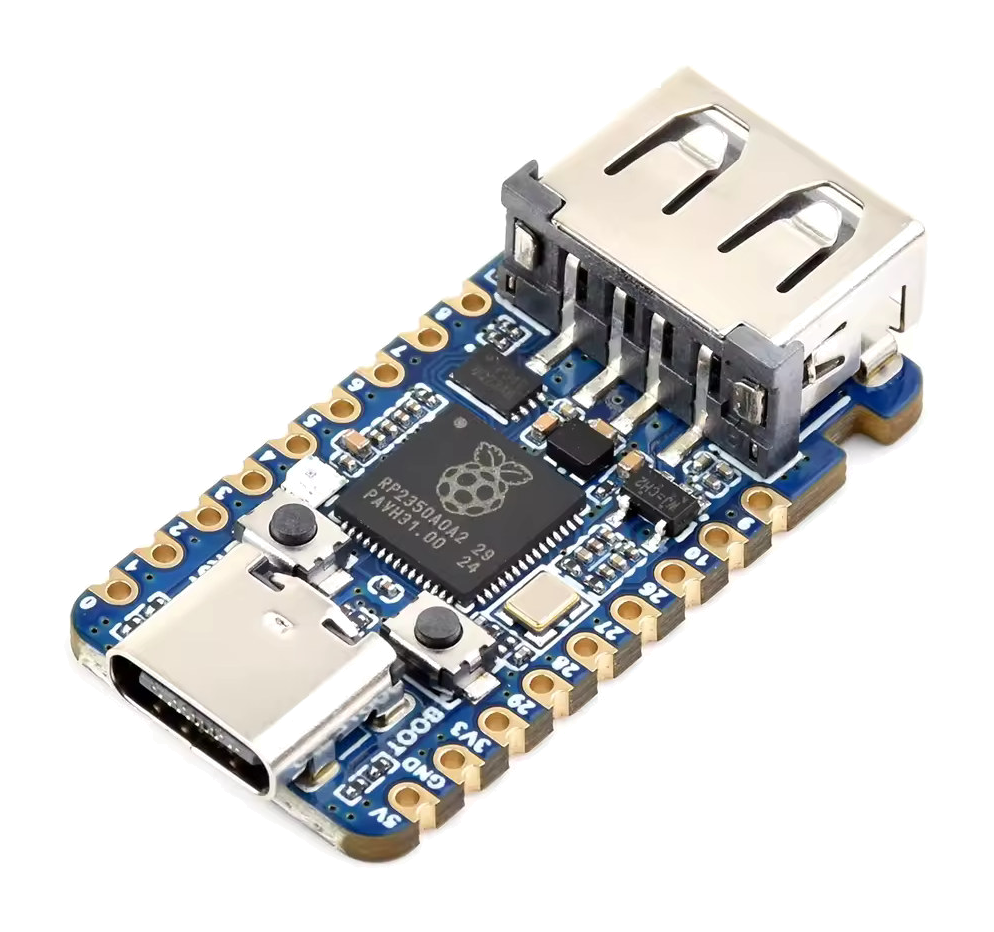
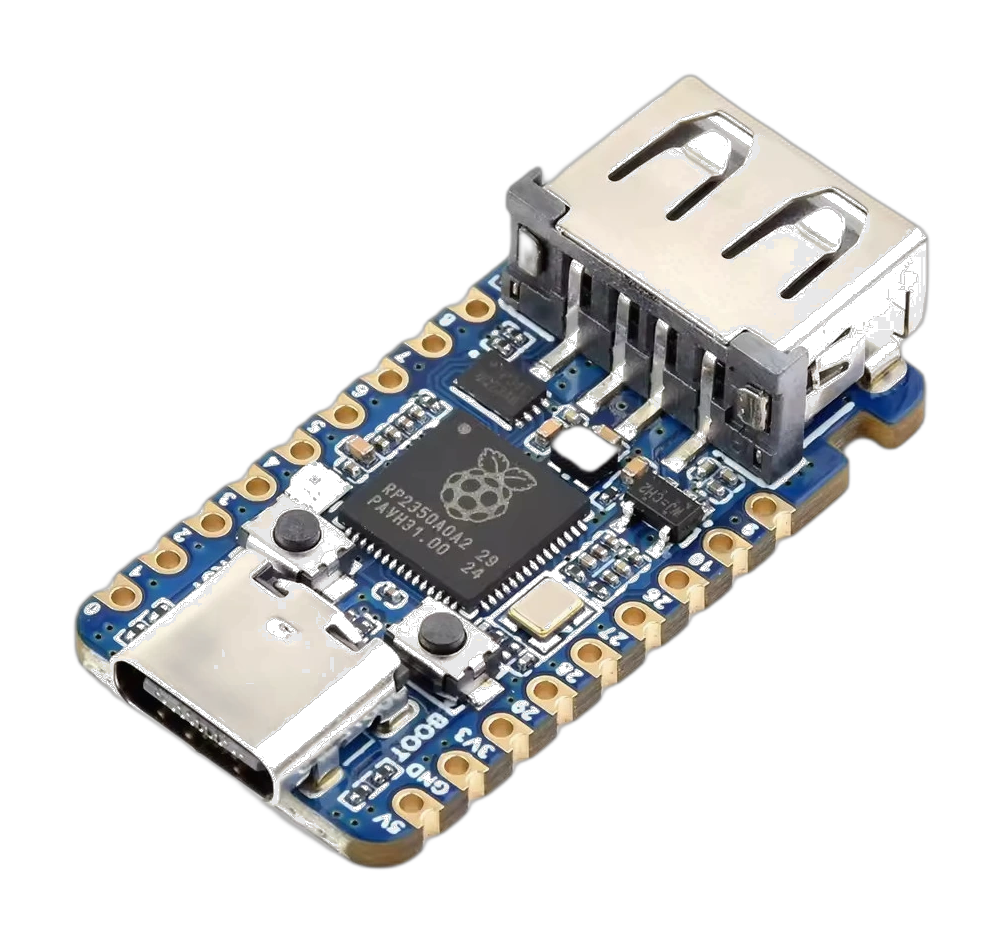
Harmonise le fond RP2350 avec le thème sombre du site
Retire le fond blanc studio, utilise une photo détourée transparente
sur bg-dark-base pour que la carte hardware se fonde dans le néon.

diff --git a/client/src/pages/Purchase.tsx b/client/src/pages/Purchase.tsx
@@ -738,13 +738,13 @@ export default function Purchase() {
                   >
                     <div className="absolute -inset-[1px] rounded-xl bg-gradient-to-br from-violet-tech via-cyan-400/40 to-violet-accent opacity-60 blur-[1px] group-hover:opacity-100 transition-opacity" />
                     <div className="relative rounded-xl border border-violet-tech/50 bg-dark-base shadow-[0_0_40px_rgba(123,46,255,0.25)] overflow-hidden">
-                      <div className="bg-white">
+                      <div className="px-5 pt-5 pb-2 bg-dark-base">
                         <img
                           src="/images/rp2350a-board.webp"
                           alt="Waveshare RP2350A USB Mini Development Board — required"
-                          className="w-full h-auto object-contain block"
-                          width={994}
-                          height={932}
+                          className="w-full h-auto object-contain block drop-shadow-[0_0_28px_rgba(123,46,255,0.35)]"
+                          width={1004}
+                          height={943}
                           loading="eager"
                           decoding="async"
                         />
